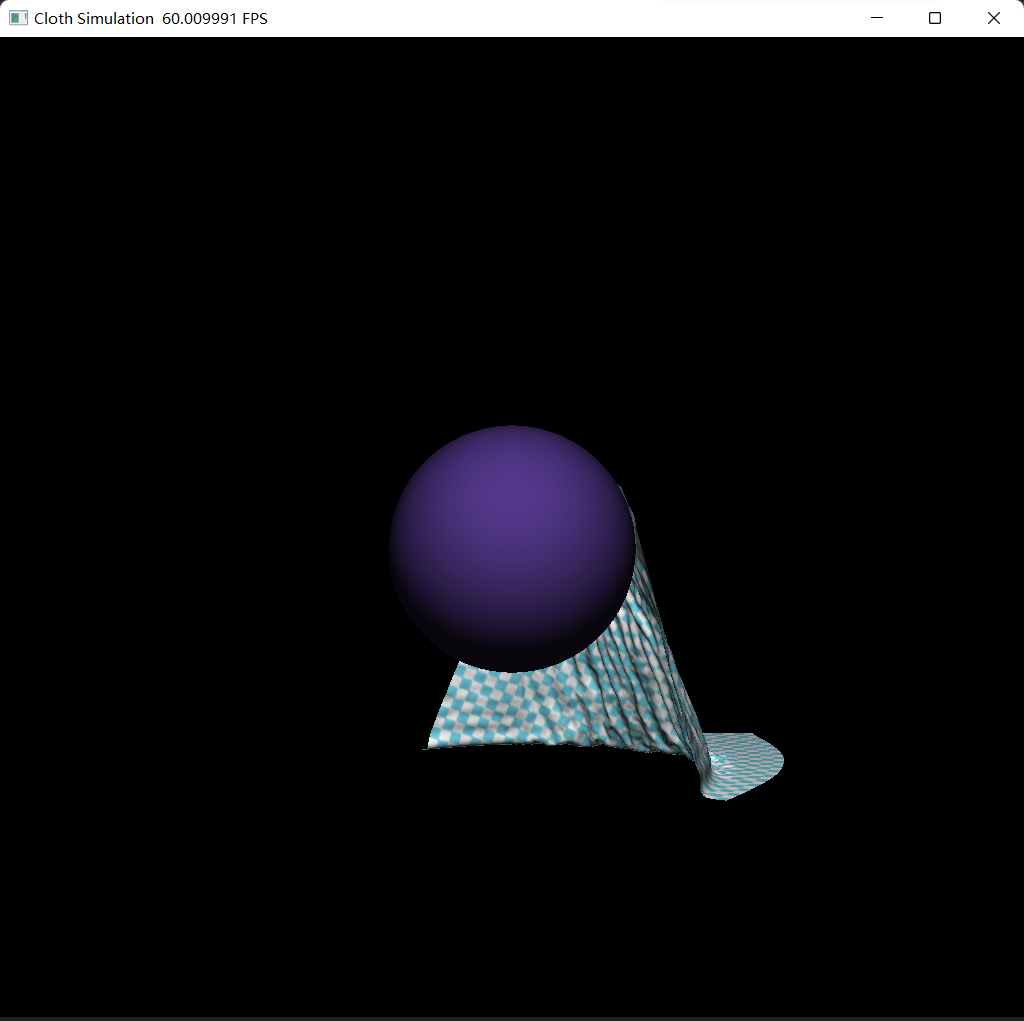
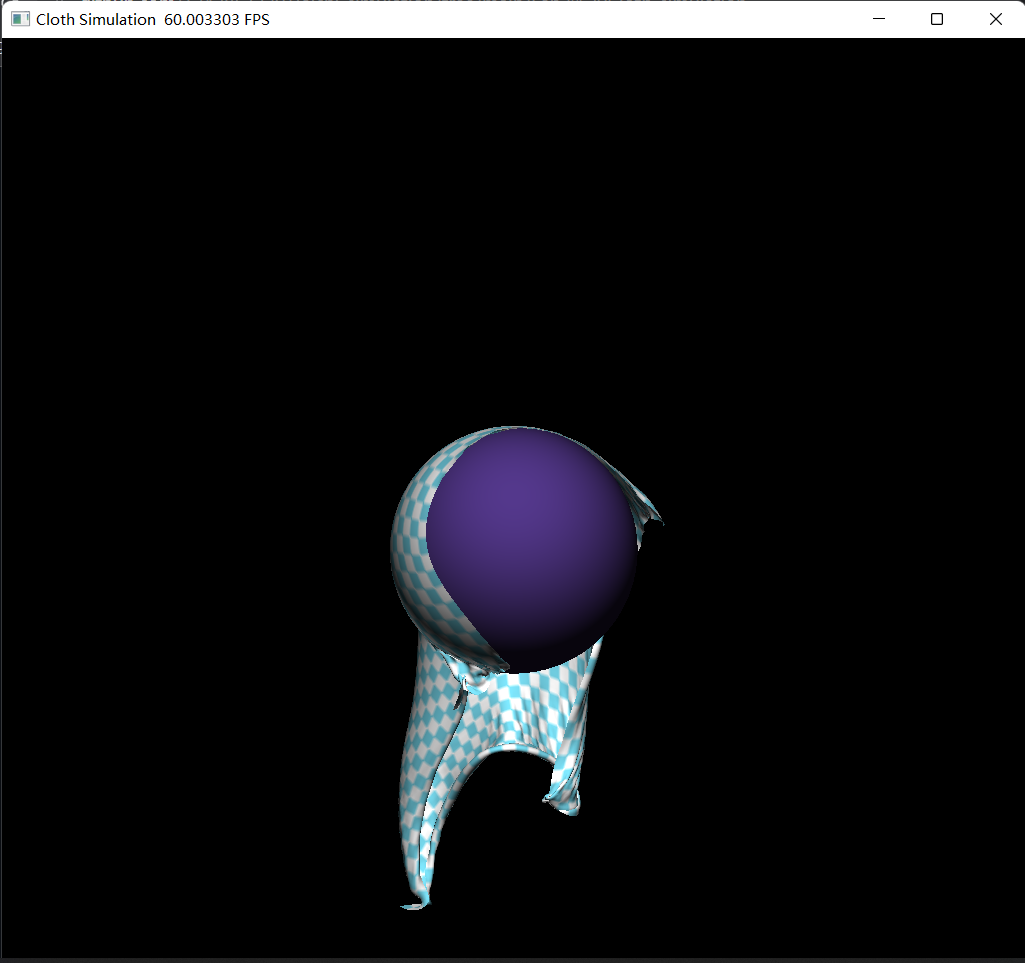
Add damping

Changed region(s): [[0.375, 0.405, 0.7812, 0.9346], [0.0, 0.0, 1.0, 0.0623]]

diff --git a/Lab3 Cloth-simulation/PythonApplication/PythonApplication.py b/Lab3 Cloth-simulation/PythonApplication/PythonApplication.py
@@ -5,6 +5,7 @@ n = 128
 dt = 1e-3
 substep = int(1 / 60 // dt)
 quad_size = 1.0 / n
+d = 1e2
 g = ti.Vector([0, -9.8, 0])
 spring_y = 1e3
 spring_offsets = ti.Vector.field(2, dtype = int, shape = 6)
@@ -75,7 +76,10 @@ def update():
         ny = s[0, i].d
         dist_original = s[0, i].e
         dist_current = ti.math.length(p[nx, ny] - p[x, y])
-        force = 0.85 * spring_y * (dist_current / dist_original - 1)
+        v_relative = (p[nx, ny] - p[x, y]).normalized().dot(v[x, y]) + (p[x, y] - p[nx, ny]).normalized().dot(v[nx, ny])
+        force = spring_y * (dist_current / dist_original - 1)
+        force -= d * v_relative
+        
         f[x, y] += force * (p[nx, ny] - p[x, y]).normalized()
         f[nx, ny] += force * (p[x, y] - p[nx, ny]).normalized()
     for i,j in ti.ndrange(n, n):

diff --git a/Lab1 Crash-balls/PythonApplication/PythonApplication.py b/Lab1 Crash-balls/PythonApplication/PythonApplication.py
@@ -112,10 +112,10 @@ def cross():
                         r = m
                 p[i] -= r * v[i]
                 p[j] -= r * v[j]
-                iTan = ti.math.normalize(p[j] - p[i]) * ti.math.dot(v[i], (p[j] - p[i]))
-                jTan = ti.math.normalize(p[i] - p[j]) * ti.math.dot(v[j], (p[i] - p[j]))
-                v[i] -= 1.7 * iTan
-                v[j] -= 1.7 * jTan
+                iTan = (p[j] - p[i]).normalized() * (p[j] - p[i]).normalized().dot(v[i])
+                jTan = (p[i] - p[j]).normalized() * (p[i] - p[j]).normalized().dot(v[j])
+                v[i] = v[i] - iTan
+                v[j] = v[j] - jTan
                 p[i] += r * v[i]
                 p[j] += r * v[j]
 

diff --git a/Lab3 Cloth-simulation/README.md b/Lab3 Cloth-simulation/README.md
@@ -8,6 +8,7 @@
 <img src="https://github.com/1242857339/Taichi-simulation/blob/main/Lab3%20Cloth-simulation/fuck.jpeg" width = "35%" height = "35%" />
 <center><p>Taichi你个狗杂种！</p></center>
 </div> 
-
-![image](https://github.com/1242857339/Taichi-simulation/blob/main/Lab3%20Cloth-simulation/show.png)
+<div align=center>
+<img src="https://github.com/1242857339/Taichi-simulation/blob/main/Lab3%20Cloth-simulation/show.png" width = "50%" height = "50%" />
+</div> 
 
